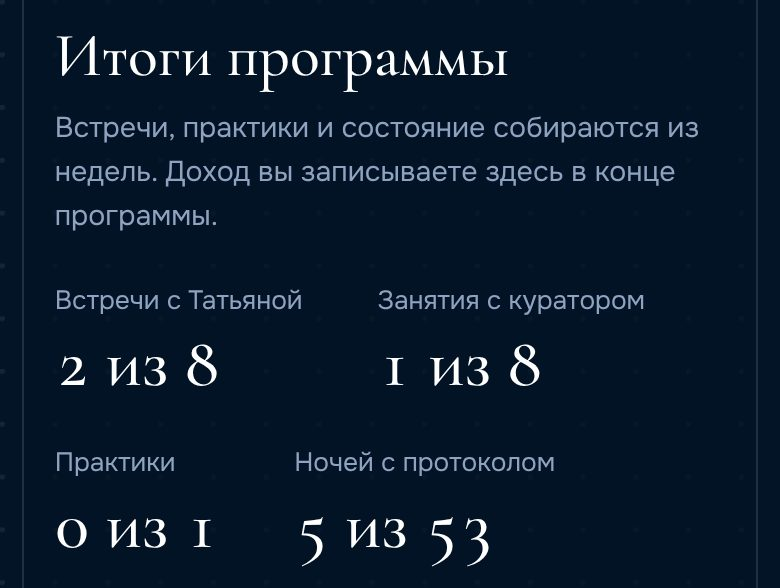
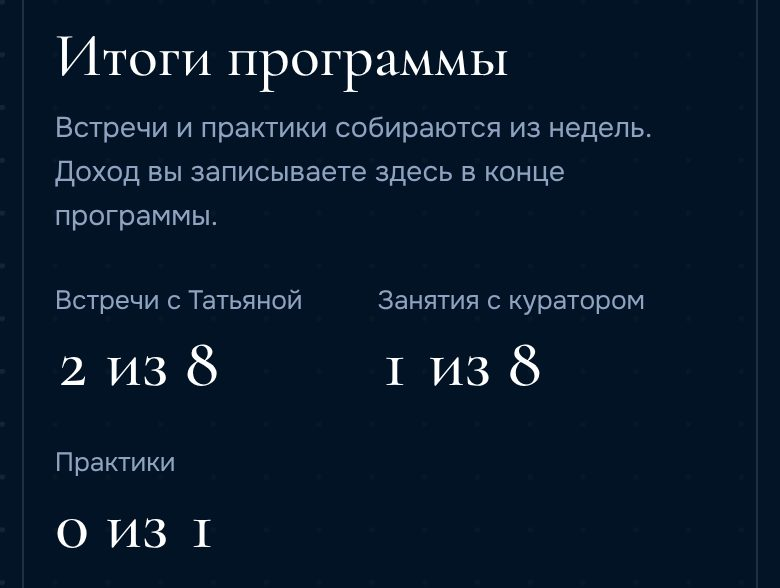
Скрыты «Протокол для подсознания во сне» и «Состояние: энергия и ясность» (вернуть: SHOW_NIGHTS / SHOW_STATE)
Подсчёты, итоги, кабинет админа и инструкция обновлены.

Claude-Session: https://claude.ai/code/session_01Ap7g13T5idtYD8rgZRr2ux

diff --git a/app.js b/app.js
@@ -133,16 +133,20 @@
     if (LIVE_PRACTICES.indexOf(k) >= 0 && isRec(s)) return 'live';
     return 'ok';
   }
+  // «Протокол для подсознания во сне» пока скрыт: решают, давать ли его. Вернуть — поставить true.
+  var SHOW_NIGHTS = false;
+  // Оценка «Состояние: энергия и ясность» тоже скрыта. Вернуть — поставить true.
+  var SHOW_STATE = false;
   function practicesOpenTo(i, s) { return [1, 2, 3].filter(function (n) { return practiceAccess(i + 1, n, s) === 'ok'; }).length; }
   // Пункты недели, которые считаются в кольце прогресса, зависят от тарифа
   function maxDone(s, i) {
     return 1 + 1 + (feature('buddy', s) ? 1 : 0) +
-      (isVip(s) ? 1 : 0) + practicesOpenTo(i, s) + weekLen(i, s);
+      (isVip(s) ? 1 : 0) + practicesOpenTo(i, s) + (SHOW_NIGHTS ? weekLen(i, s) : 0);
   }
   function done(w, s, i) {
     var pr = (w.practices || []).filter(function (v, j) { return v && practiceAccess(i + 1, j + 1, s) === 'ok'; }).length;
     return w.meet + (w.cur || 0) + (feature('buddy', s) ? w.buddy : 0) +
-      pr + sum(w.nights.slice(0, weekLen(i, s))) + (isVip(s) ? (w.vip || 0) : 0);
+      pr + (SHOW_NIGHTS ? sum(w.nights.slice(0, weekLen(i, s))) : 0) + (isVip(s) ? (w.vip || 0) : 0);
   }
   function planPill(s) { var p = plan(s); return p ? '<span class="pill plan-' + p.id + '">' + p.name + '</span>' : '<span class="pill mute">тариф не выбран</span>'; }
 
@@ -294,13 +298,13 @@
       return '<div class="crow has-ico"><span class="ci mute">' + svg('lock') + '</span><span>' + title + '<small>Станет доступна после встречи с Татьяной</small></span><span class="pill mute">закрыта</span></div>';
     }).join('') + '</div></div>';
     var ws0 = weekStart(cur), nn = [0, 1, 2, 3, 4, 5, 6].slice(0, weekLen(cur));
-    h += '<div class="block"><h3>Протокол для подсознания во сне</h3><div class="nights">' + nn.map(function (n) {
+    if (SHOW_NIGHTS) h += '<div class="block"><h3>Протокол для подсознания во сне</h3><div class="nights">' + nn.map(function (n) {
       var day = ws0 ? addDays(ws0, n) : null;
       var wd = day ? day.toLocaleDateString('ru-RU', { weekday: 'short' }) : 'ночь';
       return '<label class="night" for="w-n' + n + '"><b>' + wd + '</b><input class="chk moon" type="checkbox" id="w-n' + n + '" data-bind="weeks.' + cur + '.nights.' + n + '"' + (w.nights[n] ? ' checked' : '') + dis() + ' aria-label="' + (day ? day.toLocaleDateString('ru-RU', { weekday: 'long', day: 'numeric', month: 'long' }) : 'Ночь ' + (n + 1)) + '">' + (day ? day.getDate() : n + 1) + '</label>';
     }).join('') + '</div><p class="scale">Отмечайте ночи, когда вы слушали протокол перед сном.</p></div>';
     h += '<div class="block"><h3>Действие недели</h3><input type="text" id="w-action" data-bind="weeks.' + cur + '.action" value="' + esc(w.action) + '" placeholder="Один шаг, который приведёт к деньгам, а не только к инсайту"' + dis() + '></div>';
-    h += '<div class="block"><h3>Состояние: энергия и ясность</h3><div class="scales">' +
+    if (SHOW_STATE) h += '<div class="block"><h3>Состояние: энергия и ясность</h3><div class="scales">' +
       '<div class="week"><span>В начале недели</span>' + dotsRow('weeks.' + cur + '.s0', w.s0) + '</div>' +
       '<div class="week"><span>В конце недели</span>' + dotsRow('weeks.' + cur + '.s1', w.s1) + '</div>' +
       '</div><p class="scale">От 1, когда нет сил, до 5, когда ясно и легко.</p></div>';
@@ -321,16 +325,16 @@
 
   function renderTotal() {
     var s = D(), W = s.weeks, st = stats(s), h = '';
-    h += '<h2>Итоги программы</h2><p class="note">Встречи, практики и состояние собираются из недель. Доход вы записываете здесь в конце программы.</p>';
+    h += '<h2>Итоги программы</h2><p class="note">Встречи и практики собираются из недель. Доход вы записываете здесь в конце программы.</p>';
     h += '<div class="kpis">' +
       '<div><span>' + (isRec(s) ? 'Записи встреч' : 'Встречи с Татьяной') + '</span><strong>' + st.meets + ' из 8</strong></div>' +
       '<div><span>Занятия с куратором</span><strong>' + st.curs + ' из 8</strong></div>' +
       '<div><span>Практики</span><strong>' + st.practices + ' из ' + st.practicesMax + '</strong></div>' +
-      '<div><span>Ночей с протоколом</span><strong>' + st.nights + ' из ' + totalNights(s) + '</strong></div></div>';
+      (SHOW_NIGHTS ? '<div><span>Ночей с протоколом</span><strong>' + st.nights + ' из ' + totalNights(s) + '</strong></div>' : '') + '</div>';
     h += '<div class="income"><h3>Доход: старт и итог</h3>' +
       '<div class="row"><label class="f" for="e-income">Ваш доход в месяц в конце программы, ' + esc(s.start.cur) + '<input type="number" inputmode="numeric" id="e-income" data-bind="end.income" value="' + esc(s.end.income) + '" placeholder="0"' + dis() + '></label></div>' +
       '<div id="inc-cmp"></div></div>';
-    h += '<h3 style="margin-top:26px">Состояние по неделям</h3><div class="statebar">' + W.map(function (w, i) {
+    if (SHOW_STATE) h += '<h3 style="margin-top:26px">Состояние по неделям</h3><div class="statebar">' + W.map(function (w, i) {
       var a = [w.s0, w.s1].filter(Boolean); a = a.length ? sum(a) / a.length : 0;
       return '<i title="Неделя ' + (i + 1) + ': ' + (a ? a.toFixed(1) + ' из 5' : 'нет данных') + '" style="opacity:' + (a ? (0.2 + a / 5 * 0.8).toFixed(2) : 0.08) + '"></i>';
     }).join('') + '</div><p class="legend">Чем ярче, тем выше среднее состояние недели.</p>';
@@ -392,8 +396,8 @@
       '<div><span>Участников</span><strong>' + N + '</strong></div>' +
       '<div><span>Активны за 7 дней</span><strong>' + active + ' из ' + N + '</strong></div>' +
       '<div><span>Посещают встречи</span><strong>' + (meetPct == null ? '-' : Math.round(meetPct * 100) + '%') + '</strong></div>' +
-      '<div><span>Ночей протокола в неделю</span><strong>' + (nightsAvg == null ? '-' : nightsAvg.toFixed(1) + ' из 7') + '</strong></div>' +
-      '<div><span>Среднее состояние</span><strong>' + (stAvg == null ? '-' : stAvg.toFixed(1) + ' из 5') + '</strong></div></div>';
+      (SHOW_NIGHTS ? '<div><span>Ночей протокола в неделю</span><strong>' + (nightsAvg == null ? '-' : nightsAvg.toFixed(1) + ' из 7') + '</strong></div>' : '') +
+      (SHOW_STATE ? '<div><span>Среднее состояние</span><strong>' + (stAvg == null ? '-' : stAvg.toFixed(1) + ' из 5') + '</strong></div>' : '') + '</div>';
     // Сколько людей на каждом тарифе
     var noPlan = P.filter(function (p) { return !planId(p.s); }).length;
     h += '<div class="plan-count">' + PLANS.map(function (pl) {
@@ -402,7 +406,7 @@
     }).join('') + (noPlan ? '<span class="pill mute">не выбрали: ' + noPlan + '</span>' : '') + '</div>';
 
     h += '<h3>Каждый участник</h3><div class="tablewrap"><table><thead><tr>' +
-      '<th>Участник</th><th>Тариф</th><th>Обновлял(а)</th><th>Недели</th><th>Встречи</th><th>Кураторы</th><th>Ночи</th><th>Практики</th><th>Доход в месяц: старт → итог</th><th>Состояние</th><th>Результаты до → после</th><th><span class="sr">Удалить</span></th>' +
+      '<th>Участник</th><th>Тариф</th><th>Обновлял(а)</th><th>Недели</th><th>Встречи</th><th>Кураторы</th>' + (SHOW_NIGHTS ? '<th>Ночи</th>' : '') + '<th>Практики</th><th>Доход в месяц: старт → итог</th>' + (SHOW_STATE ? '<th>Состояние</th>' : '') + '<th>Результаты до → после</th><th><span class="sr">Удалить</span></th>' +
       '</tr></thead><tbody>' + all.map(function (x) {
         var p = x.p, st = x.st, c = p.s.start.cur;
         var mini = '<span class="mini" aria-hidden="true">' + p.s.weeks.map(function (w) { return '<i class="' + (w.meet ? 'y' : '') + '"></i>'; }).join('') + '</span> ';
@@ -417,17 +421,17 @@
             PLANS.map(function (pl) { return '<option value="' + pl.id + '"' + (pl.id === planId(p.s) ? ' selected' : '') + '>' + pl.name + '</option>'; }).join('') +
           '</select></td>' +
           '<td>' + freshPill(p.updatedAt) + '</td><td>' + st.touched + ' из 8</td>' +
-          '<td>' + mini + st.meets + '</td><td>' + st.curs + '</td><td>' + st.nights + '</td><td>' + st.practices + '</td>' +
-          '<td>' + m2 + '</td><td>' + (st.state == null ? '-' : st.state.toFixed(1)) + '</td><td>' + res + '</td>' +
+          '<td>' + mini + st.meets + '</td><td>' + st.curs + '</td>' + (SHOW_NIGHTS ? '<td>' + st.nights + '</td>' : '') + '<td>' + st.practices + '</td>' +
+          '<td>' + m2 + '</td>' + (SHOW_STATE ? '<td>' + (st.state == null ? '-' : st.state.toFixed(1)) + '</td>' : '') + '<td>' + res + '</td>' +
           '<td>' + (p.id !== me.id ? '<button class="ghost danger small" type="button" data-delp="' + esc(p.id) + '">Удалить</button>' : '') + '</td></tr>';
       }).join('') + '</tbody></table></div>';
 
-    h += '<h3>Посещаемость по неделям</h3><div class="tablewrap"><table style="min-width:520px"><thead><tr><th>Неделя</th><th>Встреча с Татьяной</th><th>Занятие с куратором</th><th>Бадди</th><th>Практики выполнены</th><th>Ночей в среднем</th></tr></thead><tbody>' +
+    h += '<h3>Посещаемость по неделям</h3><div class="tablewrap"><table style="min-width:520px"><thead><tr><th>Неделя</th><th>Встреча с Татьяной</th><th>Занятие с куратором</th><th>Бадди</th><th>Практики выполнены</th>' + (SHOW_NIGHTS ? '<th>Ночей в среднем</th>' : '') + '</tr></thead><tbody>' +
       MODULES.map(function (m, i) {
         var ws = P.map(function (p) { return p.s.weeks[i]; });
         var c = function (k) { return ws.filter(function (w) { return w[k]; }).length + ' из ' + N; };
         var n = avg(ws.map(function (w) { return sum(w.nights); }));
-        return '<tr><td>' + (i + 1) + (i === wk ? ' <span class="pill good">сейчас</span>' : '') + '</td><td>' + c('meet') + '</td><td>' + c('cur') + '</td><td>' + c('buddy') + '</td><td>' + sum(ws.map(function (w) { return sum(w.practices); })) + ' из ' + N * 3 + '</td><td>' + (n == null ? '-' : n.toFixed(1)) + '</td></tr>';
+        return '<tr><td>' + (i + 1) + (i === wk ? ' <span class="pill good">сейчас</span>' : '') + '</td><td>' + c('meet') + '</td><td>' + c('cur') + '</td><td>' + c('buddy') + '</td><td>' + sum(ws.map(function (w) { return sum(w.practices); })) + ' из ' + N * 3 + '</td>' + (SHOW_NIGHTS ? '<td>' + (n == null ? '-' : n.toFixed(1)) + '</td>' : '') + '</tr>';
       }).join('') + '</tbody></table></div>';
 
     h += '<h3>С чем пришли участники</h3><div class="hbars">' + SITUATIONS.map(function (t, i) {

diff --git a/guide.html b/guide.html
@@ -124,8 +124,6 @@ figure.small img { max-width: 390px; }
     <p>Ниже отмечайте галочками, что сделали за неделю:</p>
     <figure><img src="guide/03-week-checks.jpg" alt="Список на этой неделе: встреча с Татьяной, занятие с куратором, созвон с бадди" width="390" height="301" loading="lazy"></figure>
 
-    <p><b>Протокол для подсознания во сне</b> — отмечайте каждую ночь, когда слушали протокол перед сном. Первая неделя начинается с четверга, дальше недели идут с понедельника по воскресенье.</p>
-    <figure><img src="guide/04-nights.jpg" alt="Протокол во сне: отметки по ночам с датами" width="390" height="270" loading="lazy"></figure>
 
     <p>В конце страницы недели — короткие записи для себя:</p>
     <ul>
@@ -156,8 +154,8 @@ figure.small img { max-width: 390px; }
   <section id="total">
     <p class="step">Шаг 7</p>
     <h2>Итоги</h2>
-    <p>Здесь собирается всё, что вы отметили: встречи, практики, ночи с протоколом и доход. Ничего заполнять не нужно, кроме дохода и оценки результатов в конце программы.</p>
-    <figure><img src="guide/09-total.jpg" alt="Итоги программы: встречи с Татьяной, практики, ночи с протоколом" width="390" height="294" loading="lazy"></figure>
+    <p>Здесь собирается всё, что вы отметили: встречи, занятия с куратором, практики и доход. Ничего заполнять не нужно, кроме дохода и оценки результатов в конце программы.</p>
+    <figure><img src="guide/09-total.jpg" alt="Итоги программы: встречи с Татьяной, занятия с куратором, практики" width="390" height="294" loading="lazy"></figure>
   </section>
 
   <div class="foot">
